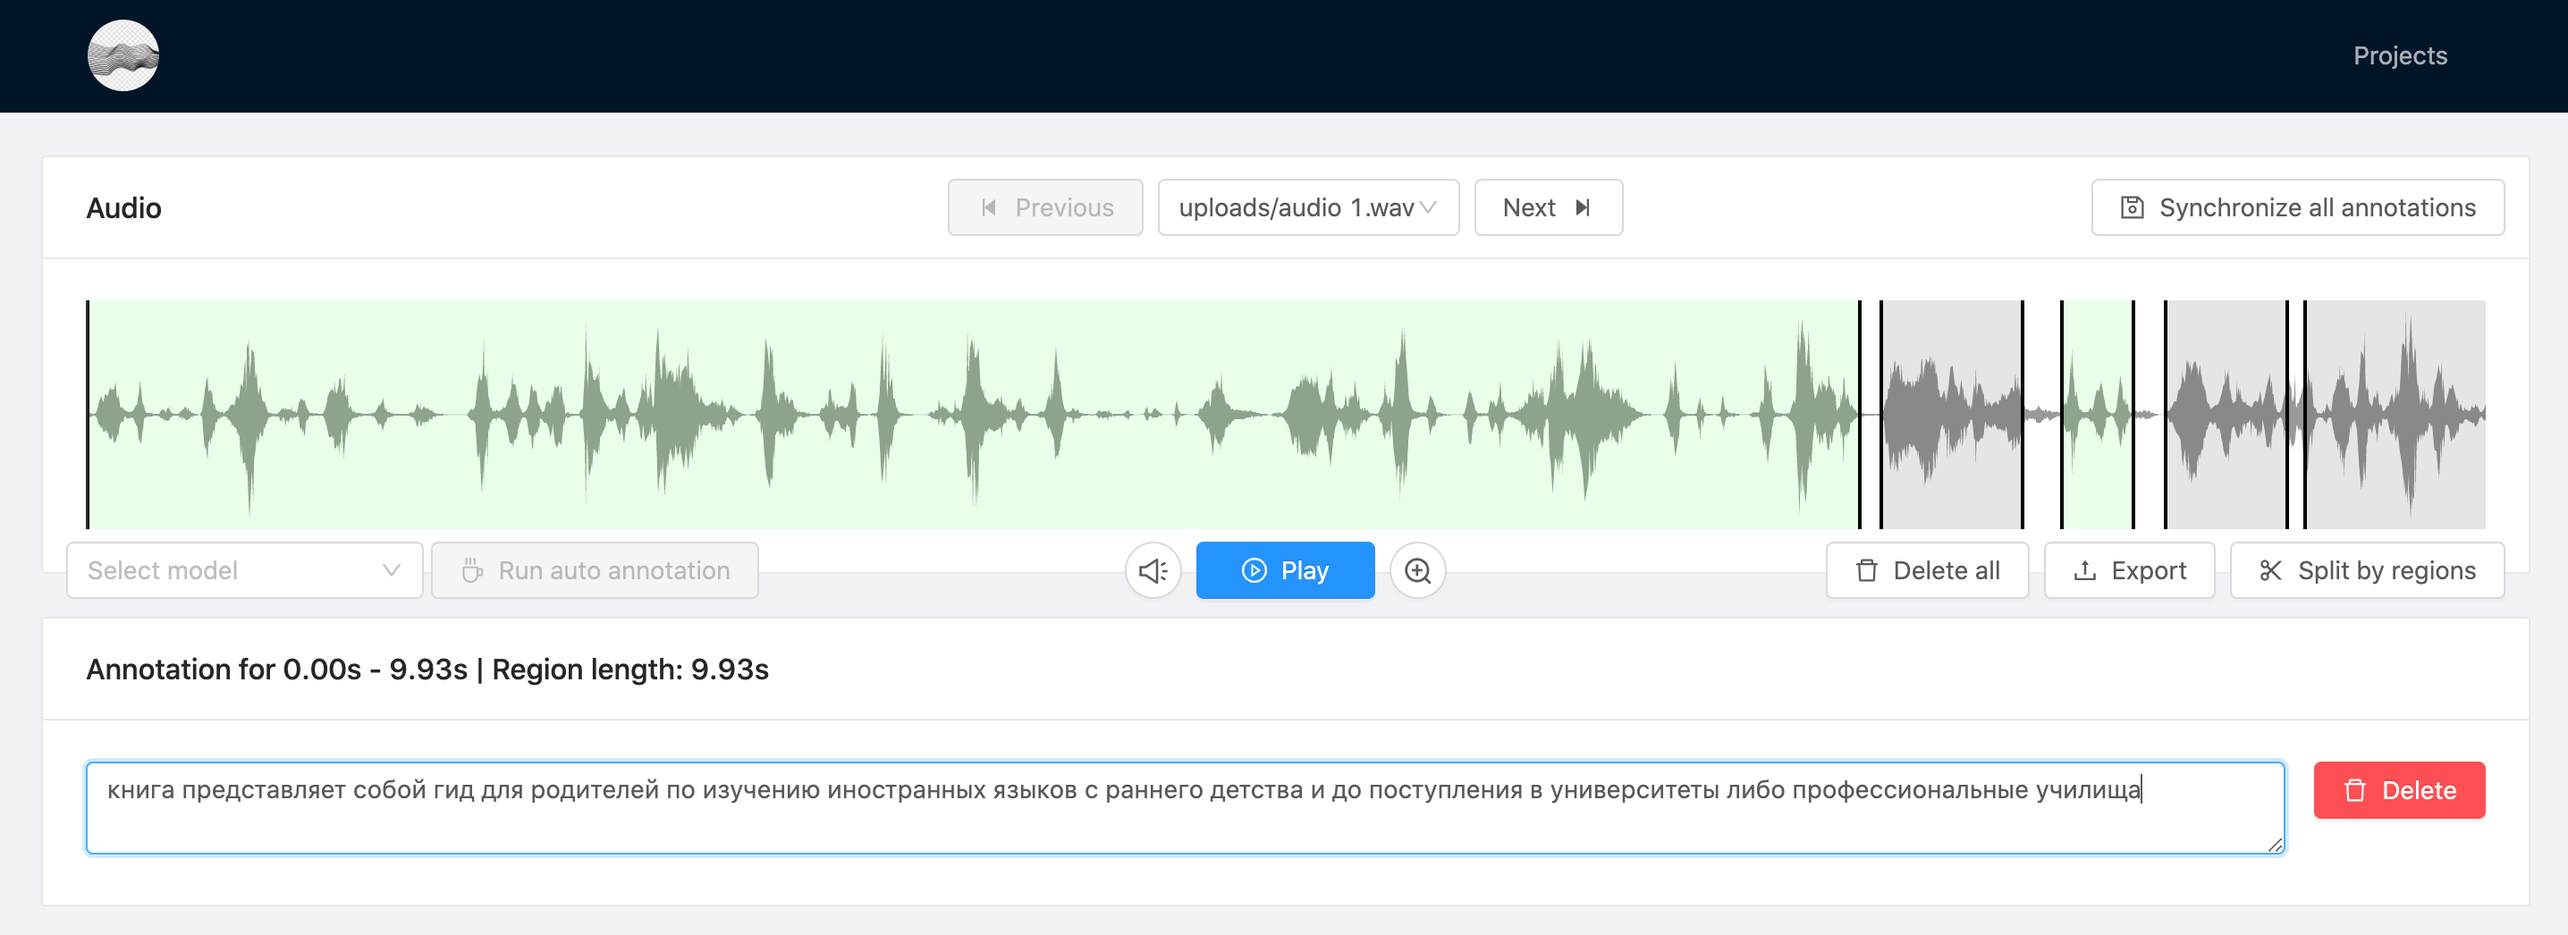
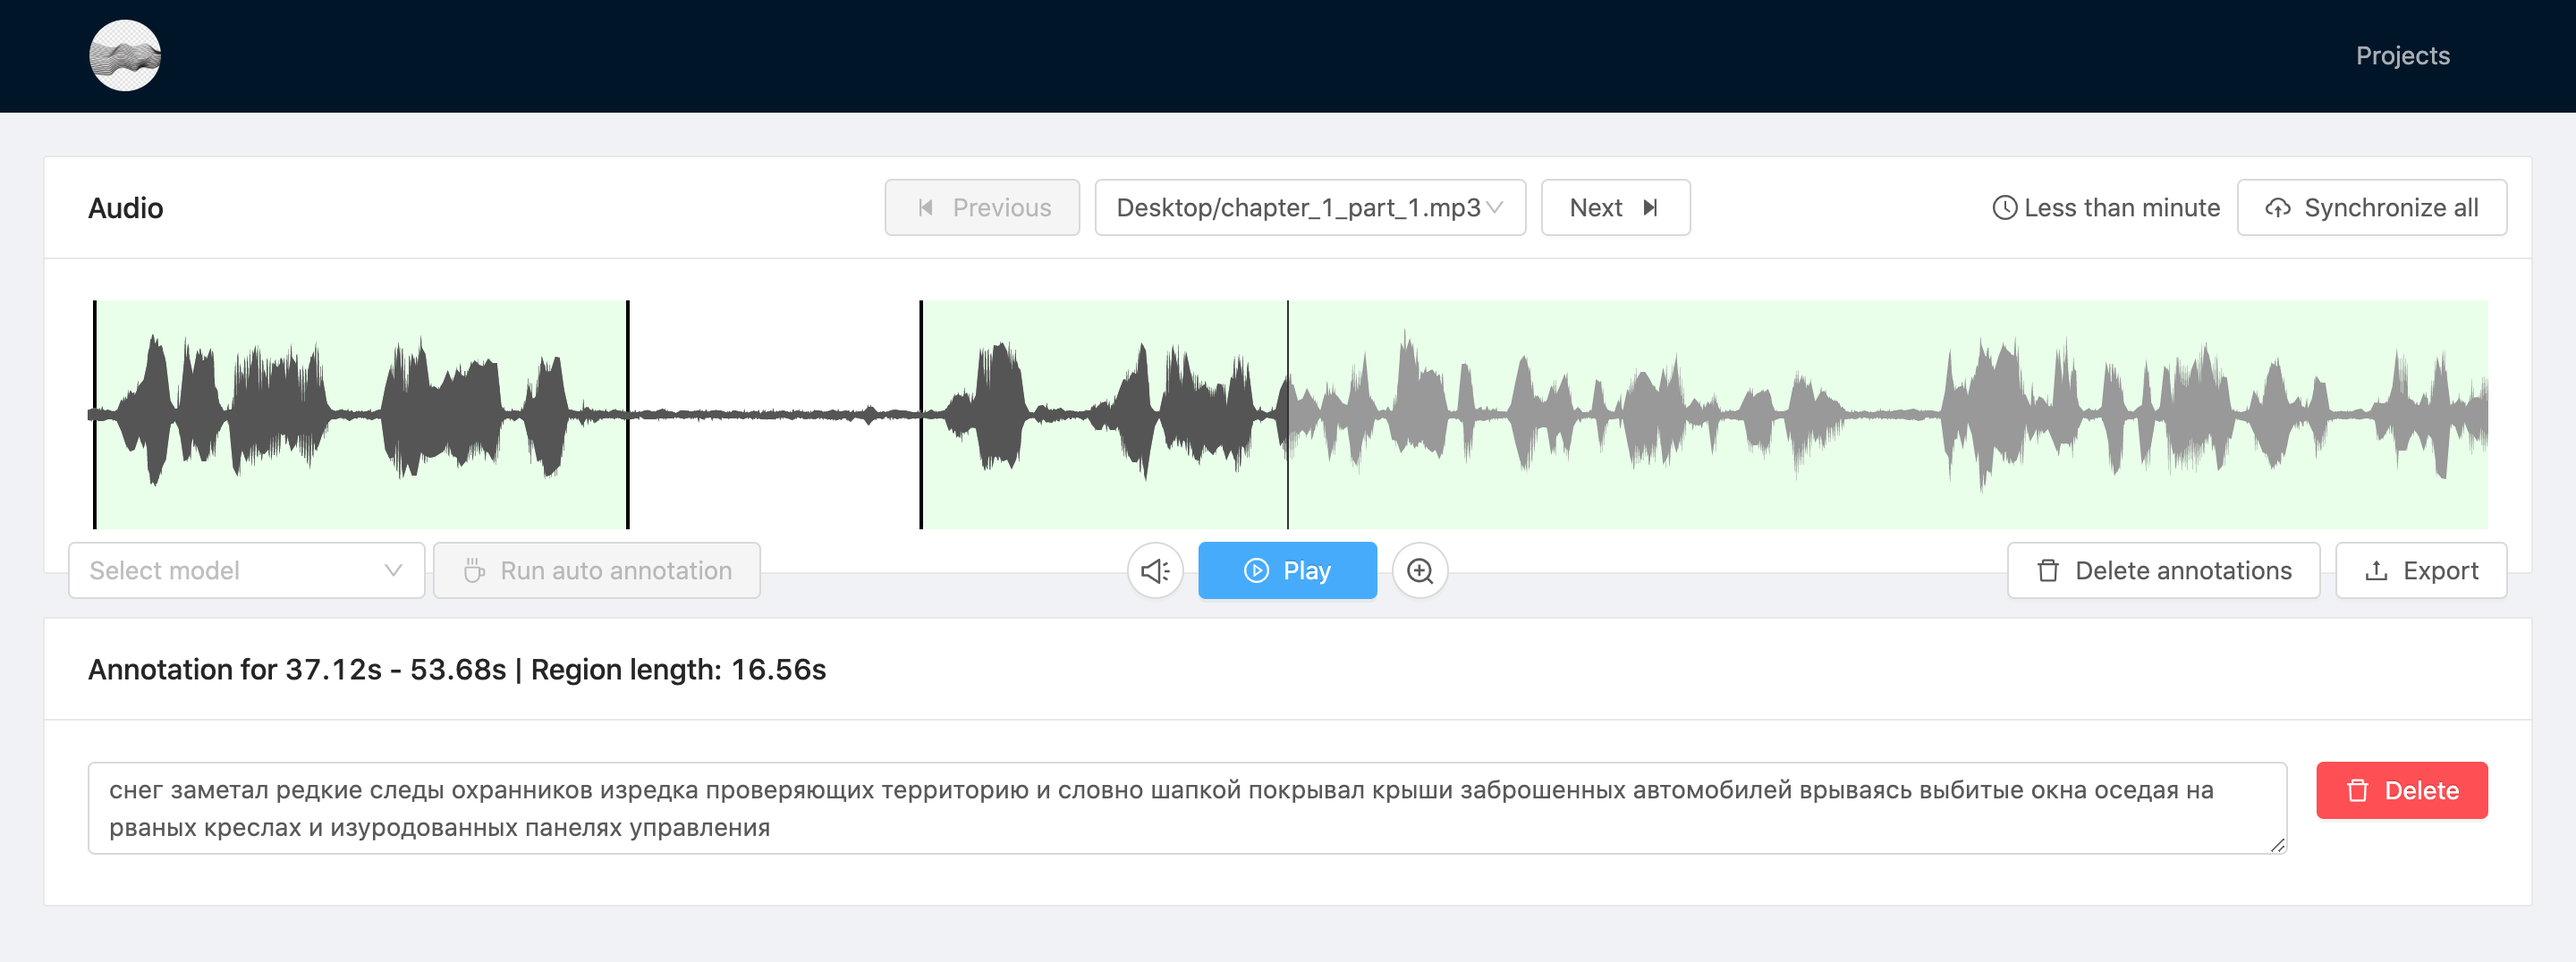
Added: - supporting mp3 files - disabling all control elements on auto annotating and media change - notification on important operations - preloader for mediaViewer Updated: - new screenshot of project page

diff --git a/frontend/pages/projects/_id/index.vue b/frontend/pages/projects/_id/index.vue
@@ -10,23 +10,31 @@
       <div slot="card-extra" style="position: absolute; left: 0; top:0; width: 100%; padding: 12px 0;">
         <a-row type="flex" justify="center" align="middle">
           <a-space>
-            <a-button :disabled="currentMediaId === 0" @click="previousMedia">
+            <a-button :disabled="currentMediaId === 0 || !isMediaReady" @click="previousMedia">
               <a-icon type="step-backward" />
               Previous
             </a-button>
-            <a-select v-model="currentMediaId" :default-value="0" style="max-width: 400px">
+            <a-select v-model="currentMediaId" :disabled="!isMediaReady" :default-value="0" style="max-width: 400px">
               <a-select-option v-for="(data, i) in projectData.data" :key="i" :value="i">
                 {{ data.file_url }}
               </a-select-option>
             </a-select>
-            <a-button :disabled="currentMediaId === projectData.data.length - 1" @click="nextMedia">
+            <a-button :disabled="currentMediaId === projectData.data.length - 1 || !isMediaReady" @click="nextMedia">
               Next
               <a-icon type="step-forward" />
             </a-button>
           </a-space>
-          <a-button style="position: absolute; right: 13px;" icon="save" :loading="isSynchRunned" :disabled="isSynchRunned" @click="saveAnnotations">
-            Synchronize all annotations
-          </a-button>
+          <div style="position: absolute; right: 13px;">
+            <span style="margin: 0 5px;"><a-icon type="clock-circle" /> {{ lastSyncTimeForHuman }}</span>
+            <a-button
+              icon="cloud-upload"
+              :loading="isSynchRunned"
+              :disabled="isSynchRunned || !isMediaReady"
+              @click="syncAnnotations"
+            >
+              Synchronize all
+            </a-button>
+          </div>
         </a-row>
       </div>
     </media-viewer>
@@ -43,7 +51,9 @@ export default {
       currentMediaId: 0,
       currentMediaURL: null,
       isSynchRunned: false,
-      lastSynchronized: null
+      isMediaReady: false,
+      lastSyncTime: new Date(),
+      lastSyncTimeForHuman: 0
     }
   },
   async fetch () {
@@ -52,6 +62,7 @@ export default {
   },
   watch: {
     currentMediaId (MediaId) {
+      this.isMediaReady = false
       this.currentMediaURL = `http://localhost:8000/uploads/${this.$router.currentRoute.params.id}/${this.projectData.data[MediaId].file_url}`
       this.$refs.mediaViewer.player.clearRegions()
       this.$refs.mediaViewer.player.empty()
@@ -62,7 +73,13 @@ export default {
       })
     }
   },
+  created () {
+    setInterval(this.getLastSyncTime, 1000)
+  },
   mounted () {
+    this.$nuxt.$on('media-is-ready', (ready) => {
+      this.isMediaReady = ready
+    })
     this.$nuxt.$on('media-clear-all-regions', (e) => {
       this.projectData.data[this.currentMediaId].annotations = []
     })
@@ -88,7 +105,7 @@ export default {
         const dataStr = 'data:text/json;charset=utf-8,' + encodeURIComponent(JSON.stringify(this.projectData.data))
         const downloadAnchorNode = document.createElement('a')
         downloadAnchorNode.setAttribute('href', dataStr)
-        downloadAnchorNode.setAttribute('download', 'annotations.json')
+        downloadAnchorNode.setAttribute('download', `${this.projectData.name}_annotations.json`)
         document.body.appendChild(downloadAnchorNode) // required for firefox
         downloadAnchorNode.click()
         downloadAnchorNode.remove()
@@ -102,17 +119,18 @@ export default {
     nextMedia () {
       this.currentMediaId = Math.min(this.currentMediaId + 1, this.projectData.data.length)
     },
-    async saveAnnotations () {
+    async syncAnnotations () {
       this.isSynchRunned = true
       await fetch(`http://localhost:8000/projects/${this.$router.currentRoute.params.id}/annotations`, {
         method: 'PUT',
         body: JSON.stringify(this.projectData.data)
       })
         .then(() => {
-          this.lastSynchronized = true
+          this.lastSyncTime = new Date()
+          this.$message.success('All synchronized now.')
         })
         .catch((e) => {
-          // this.lastSynchronized = false
+          this.$message.error('Sync was failed.' + e)
         })
         .finally(() => {
           this.isSynchRunned = false
@@ -125,6 +143,17 @@ export default {
         end: region.end,
         data: { text: region.data.text },
         color: [undefined, '', ' ', null].includes((region.data.text || '').trim()) ? 'rgba(0, 0, 0, 0.1)' : 'rgba(0, 255, 0, 0.1)'
+      }
+    },
+    getLastSyncTime () {
+      const delta = ~~((new Date() - this.lastSyncTime) / 1000)
+      const minutes = ~~(delta / 60)
+
+      if (delta < 60) {
+        this.lastSyncTimeForHuman = 'Less than minute'
+      }
+      if (delta >= 60) {
+        this.lastSyncTimeForHuman = `Sync ${minutes}m ago`
       }
     }
   }

diff --git a/frontend/components/mediaViewer.vue b/frontend/components/mediaViewer.vue
@@ -3,6 +3,13 @@
     <a-card title="Audio">
       <slot slot="extra" name="card-extra" />
       <client-only>
+        <div v-if="!isMediaReady" style="position: absolute; width: 100%; left: 0; height: 128px; background-color: rgba(0,0,0,0.7); z-index: 100;">
+          <a-row type="flex" justify="center" align="middle" style="height: 100%;">
+            <a-spin>
+              <a-icon slot="indicator" type="loading" style="font-size: 60px" spin />
+            </a-spin>
+          </a-row>
+        </div>
         <vue-wave-surfer ref="surf" :src="fileUrl" :options="options" />
         <a-row type="flex" justify="center" style="position: absolute; width: 100%; left:0; bottom: -15px;">
           <a-space size="small" style="position: absolute; left: 13px;">
@@ -17,15 +24,30 @@
                   :max="1"
                   :step="0.1"
                   :default-value="0.5"
+                  :disabled="!isMediaReady"
                   @afterChange="updateVolumes"
                 />
               </div>
-              <a-button shape="circle" icon="sound" />
+              <a-button :disabled="!isMediaReady" shape="circle" icon="sound" />
             </a-popover>
-            <a-button v-if="!isPlaying" icon="play-circle" type="primary" style="width: 100px;" @click="toggle_play">
+            <a-button
+              v-if="!isPlaying"
+              icon="play-circle"
+              type="primary"
+              style="width: 100px;"
+              :disabled="!isMediaReady"
+              @click="toggle_play"
+            >
               Play
             </a-button>
-            <a-button v-else icon="pause-circle" type="primary" style="width: 100px;" @click="toggle_play">
+            <a-button
+              v-else
+              icon="pause-circle"
+              type="primary"
+              style="width: 100px;"
+              :disabled="!isMediaReady"
+              @click="toggle_play"
+            >
               Pause
             </a-button>
             <a-popover>
@@ -36,10 +58,11 @@
                   :max="1000"
                   :step="10"
                   :default-value="zoom"
+                  :disabled="!isMediaReady"
                   @afterChange="updateZoom"
                 />
               </div>
-              <a-button shape="circle" icon="zoom-in" />
+              <a-button :disabled="!isMediaReady" shape="circle" icon="zoom-in" />
             </a-popover>
           </a-space>
           <a-space size="small" style="position: absolute; right: 13px;">
@@ -47,11 +70,12 @@
               icon="delete"
               :type="hovered ? 'danger' : 'default'"
               :loading="isSplitting"
+              :disabled="!isMediaReady"
               @mouseover="hovered = true"
               @mouseleave="hovered = false"
               @click="clearRegions"
             >
-              Delete all
+              Delete annotations
             </a-button>
             <a-dropdown>
               <a-menu slot="overlay" style="padding: 0;">
@@ -66,9 +90,9 @@
                 Export
               </a-button>
             </a-dropdown>
-            <a-button icon="scissor" :loading="isSplitting">
-              Split by regions
-            </a-button>
+            <!--<a-button icon="scissor" :disabled="!isMediaReady" :loading="isSplitting">-->
+            <!--  Split by regions-->
+            <!--</a-button>-->
             <!--            <a-button icon="edit">Edit</a-button>-->
           </a-space>
         </a-row>
@@ -122,6 +146,7 @@ export default {
       isPlaying: false,
       isExporting: false,
       isSplitting: false,
+      isMediaReady: false,
       zoom: 100,
       currentRegion: {
         id: null,
@@ -174,6 +199,7 @@ export default {
       this.currentRegion.duration = this.currentRegion.end - this.currentRegion.start
     },
     fileUrl () {
+      this.isMediaReady = false
       this.currentRegion = {
         id: null,
         start: null,
@@ -189,6 +215,8 @@ export default {
       this.$nextTick(function () {
         this.player.on('ready', () => {
           this.player.zoom(this.zoom)
+          this.isMediaReady = true
+          this.$nuxt.$emit('media-is-ready', true)
         })
         this.player.on('play', () => {
           this.isPlaying = true

diff --git a/frontend/components/modelsTreeSelect.vue b/frontend/components/modelsTreeSelect.vue
@@ -19,7 +19,7 @@
 export default {
   name: 'ModelsTreeSelect',
   props: {
-    inputFileName: { type: String }
+    inputFileName: { type: String, default: null }
   },
   data () {
     return {
@@ -43,16 +43,25 @@ export default {
   methods: {
     async runModel () {
       this.isAnnotating = true
-      console.log(this.inputFileName, this.modelName)
+      this.$message.info('Auto annotation running..')
+      this.$nuxt.$emit('media-is-ready', false)
       this.annotations = await fetch(`http://localhost:8000/annotate?input_file_path=${this.inputFileName}&model_dir_name=${this.modelName}`)
         .then((res) => {
           this.isAnnotating = false
+          this.$nuxt.$emit('media-is-ready', true)
+          this.$message.success('Auto annotation finished.')
           return res.json()
         })
-        .catch(() => {
+        .catch((e) => {
           this.isAnnotating = false
+          this.$nuxt.$emit('media-is-ready', true)
+          this.$message.error('Auto annotation failed.' + e)
         })
-      this.$nuxt.$emit('media-update-annotations', this.annotations)
+      if (this.annotations.length > 0) {
+        this.$nuxt.$emit('media-update-annotations', this.annotations)
+      } else {
+        this.$message.info("Can't find a speech.")
+      }
     }
   }
 }

diff --git a/backend/main.py b/backend/main.py
@@ -14,6 +14,7 @@ from fastapi.responses import FileResponse, JSONResponse
 from fastapi.staticfiles import StaticFiles
 from vosk import Model, KaldiRecognizer
 from utils import get_models_table, ProjectManager
+from pydub import AudioSegment
 
 BASE_DIR = Path(__file__).parent.absolute()
 DATA_DIR = BASE_DIR.parent / 'data'
@@ -103,13 +104,24 @@ async def annotate(input_file_path: str, model_dir_name: str):
     if not input_file_path.exists():
         raise HTTPException(status_code=404, detail="Input files not found.")
 
-    wf = wave.open(input_file_path.as_posix(), "rb")
+    if input_file_path.suffix != '.mp3':
+        sound = AudioSegment.from_mp3(input_file_path.as_posix())
+        wf, _ = sound.split_to_mono()
+        temp_input_file_path = input_file_path.with_suffix('.wav')
+        wf.export(temp_input_file_path.as_posix(), format="wav").close()
+        wf = wave.open(temp_input_file_path.as_posix(), "rb")
+    elif input_file_path.suffix != '.wav':
+        wf = wave.open(input_file_path.as_posix(), "rb")
+    else:
+        raise HTTPException(status_code=400, detail=f'Unsupported file extension "{input_file_path.suffix}".')
+
+    frame_rate = wf.getframerate()
     if wf.getnchannels() != 1 or wf.getsampwidth() != 2 or wf.getcomptype() != "NONE":
         print("Audio file must be WAV format mono PCM.")
         exit(1)
 
     model = Model(model_dir_path.as_posix())
-    rec = KaldiRecognizer(model, wf.getframerate())
+    rec = KaldiRecognizer(model, frame_rate)
     rec.SetWords(True)
 
     while True:
@@ -117,6 +129,11 @@ async def annotate(input_file_path: str, model_dir_name: str):
         if len(data) == 0:
             break
         rec.AcceptWaveform(data)
+
+    try:
+        temp_input_file_path.unlink()
+    except Exception:
+        pass
 
     result_json = json.loads(rec.FinalResult())
 

diff --git a/README.md b/README.md
@@ -23,7 +23,7 @@ Run FastAPI backend
 
 Run Nuxt frontend and open http://localhost:3000/projects
 
-    npm run dev --prefix frontend
+    npm run build --prefix frontend && npm run start --prefix frontend
     
 
 
